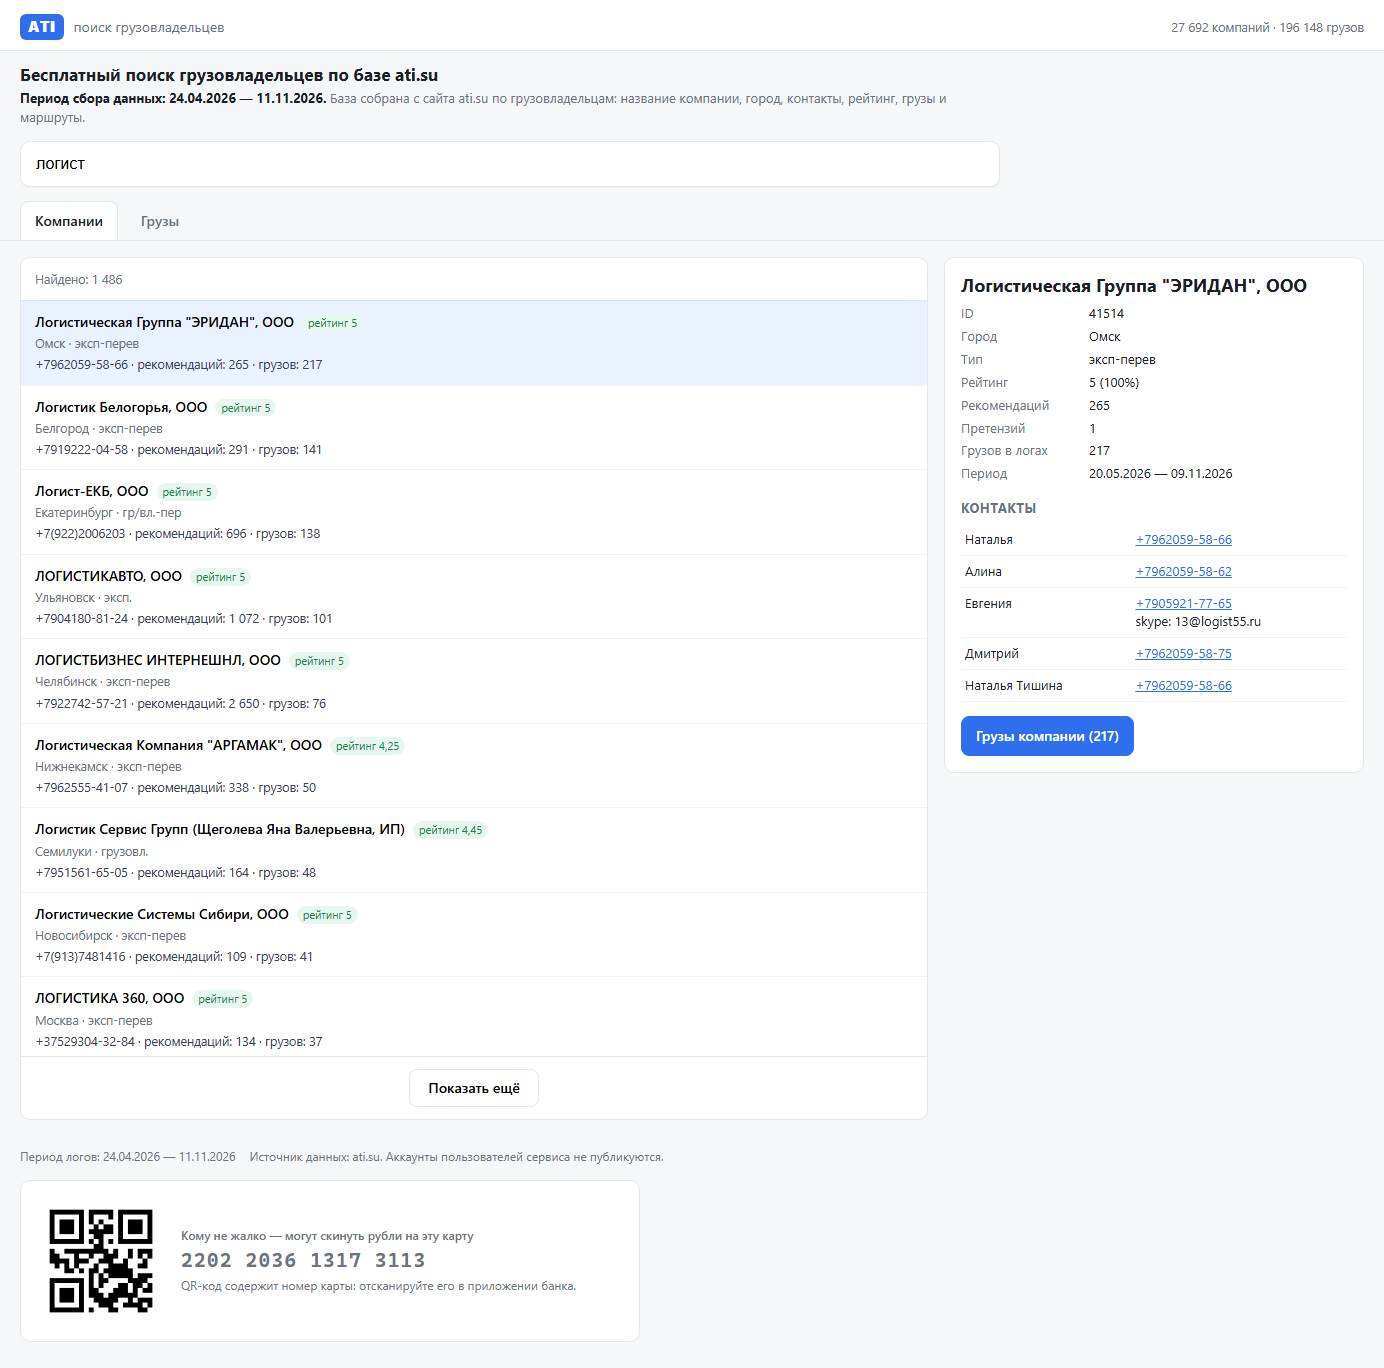
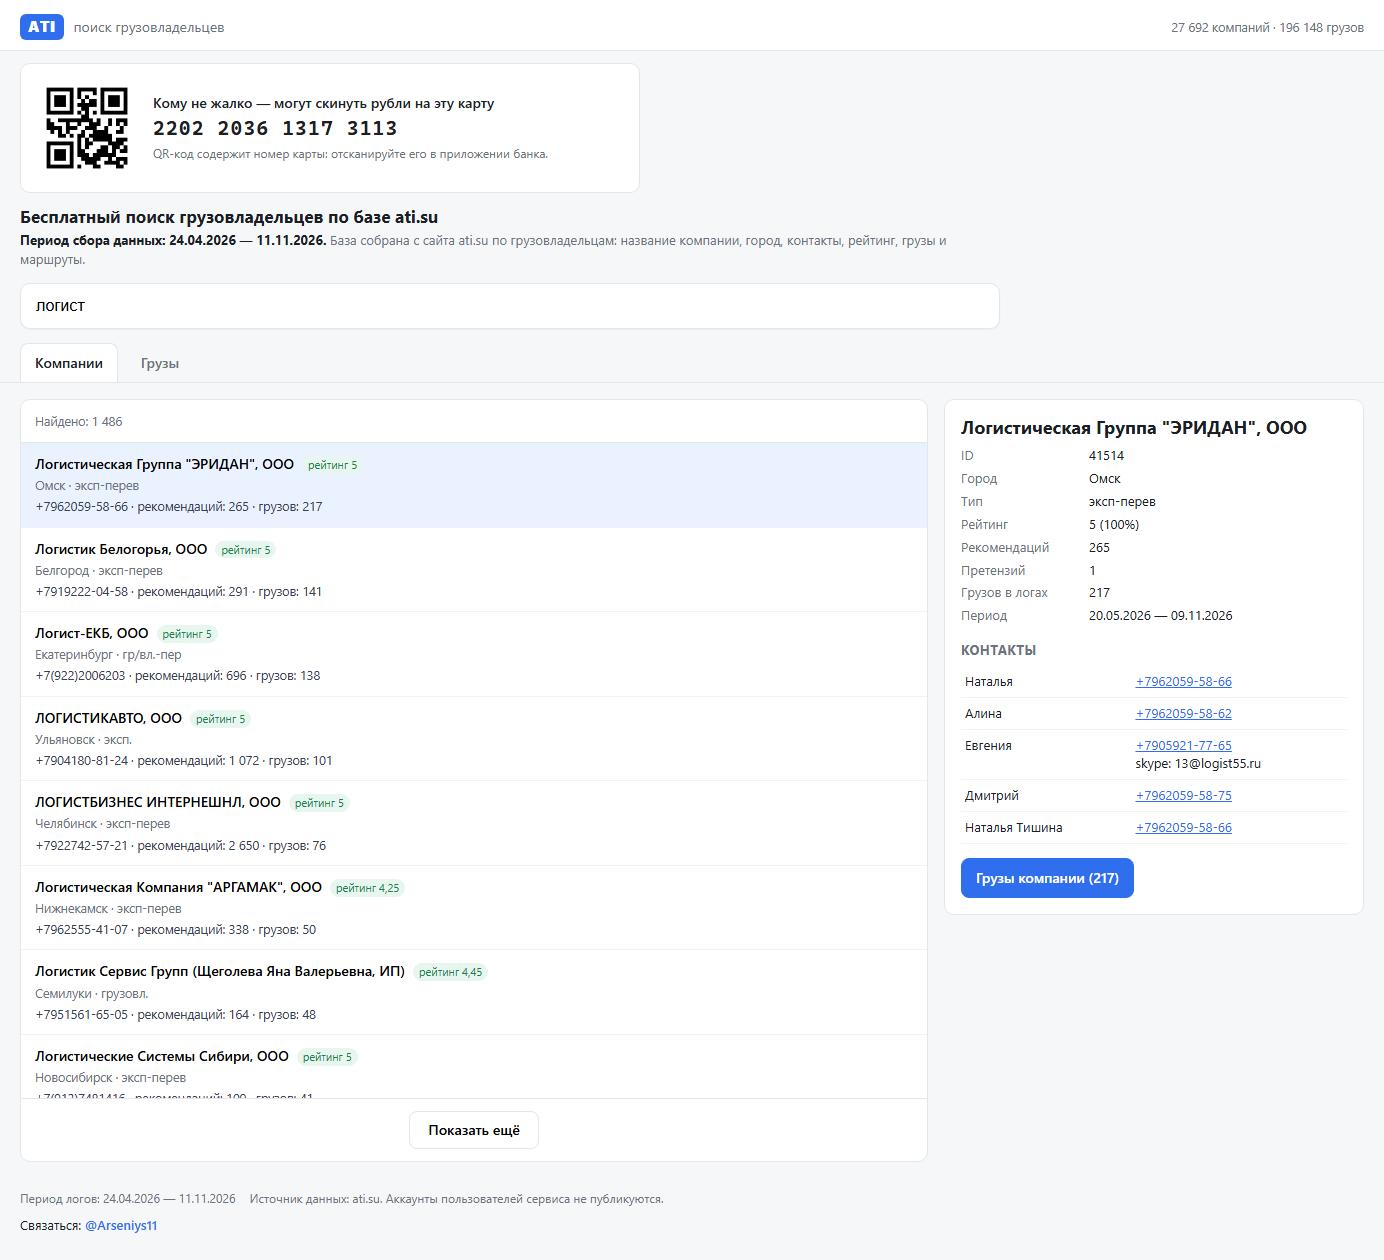
Move donation card with QR to the top of the page

diff --git a/index.html b/index.html
@@ -61,6 +61,16 @@
   <div class="stats" id="stats"></div>
 </header>
 
+<section class="donate">
+  <img src="assets/qr.png" width="104" height="104"
+       alt="QR-код с номером карты 2202 2036 1317 3113 для перевода рублей">
+  <div class="donate-text">
+    <p class="donate-title">Кому не жалко — могут скинуть рубли на эту карту</p>
+    <p class="donate-card">2202 2036 1317 3113</p>
+    <p class="muted small">QR-код содержит номер карты: отсканируйте его в приложении банка.</p>
+  </div>
+</section>
+
 <section class="hero">
   <h1>Бесплатный поиск грузовладельцев по базе ati.su</h1>
   <p class="hero-meta">
@@ -111,16 +121,6 @@
   <p class="foot-contact">
     Связаться: <a href="https://t.me/Arseniys11" target="_blank" rel="noopener">@Arseniys11</a>
   </p>
-
-  <section class="donate">
-    <img src="assets/qr.png" width="132" height="132"
-         alt="QR-код с номером карты 2202 2036 1317 3113 для перевода рублей">
-    <div class="donate-text">
-      <p class="donate-title">Кому не жалко — могут скинуть рубли на эту карту</p>
-      <p class="donate-card">2202 2036 1317 3113</p>
-      <p class="muted small">QR-код содержит номер карты: отсканируйте его в приложении банка.</p>
-    </div>
-  </section>
 </footer>
 
 <script src="assets/app.js"></script>

diff --git a/assets/style.css b/assets/style.css
@@ -57,7 +57,8 @@ a { color: var(--accent); }
   gap: 14px;
   align-items: center;
   max-width: 620px;
-  padding: 14px;
+  margin: 12px 20px 0;
+  padding: 12px 14px;
   background: var(--panel);
   border: 1px solid var(--line);
   border-radius: var(--radius);
@@ -197,7 +198,7 @@ main {
 
 .foot { padding: 0 20px 26px; color: var(--muted); font-size: 12px; }
 .foot-info { display: flex; gap: 14px; flex-wrap: wrap; margin-bottom: 8px; }
-.foot-contact { margin: 0 0 14px; font-size: 13px; color: var(--text); }
+.foot-contact { margin: 0; font-size: 13px; color: var(--text); }
 .foot-contact a { font-weight: 600; text-decoration: none; }
 .foot-contact a:hover { text-decoration: underline; }
 
